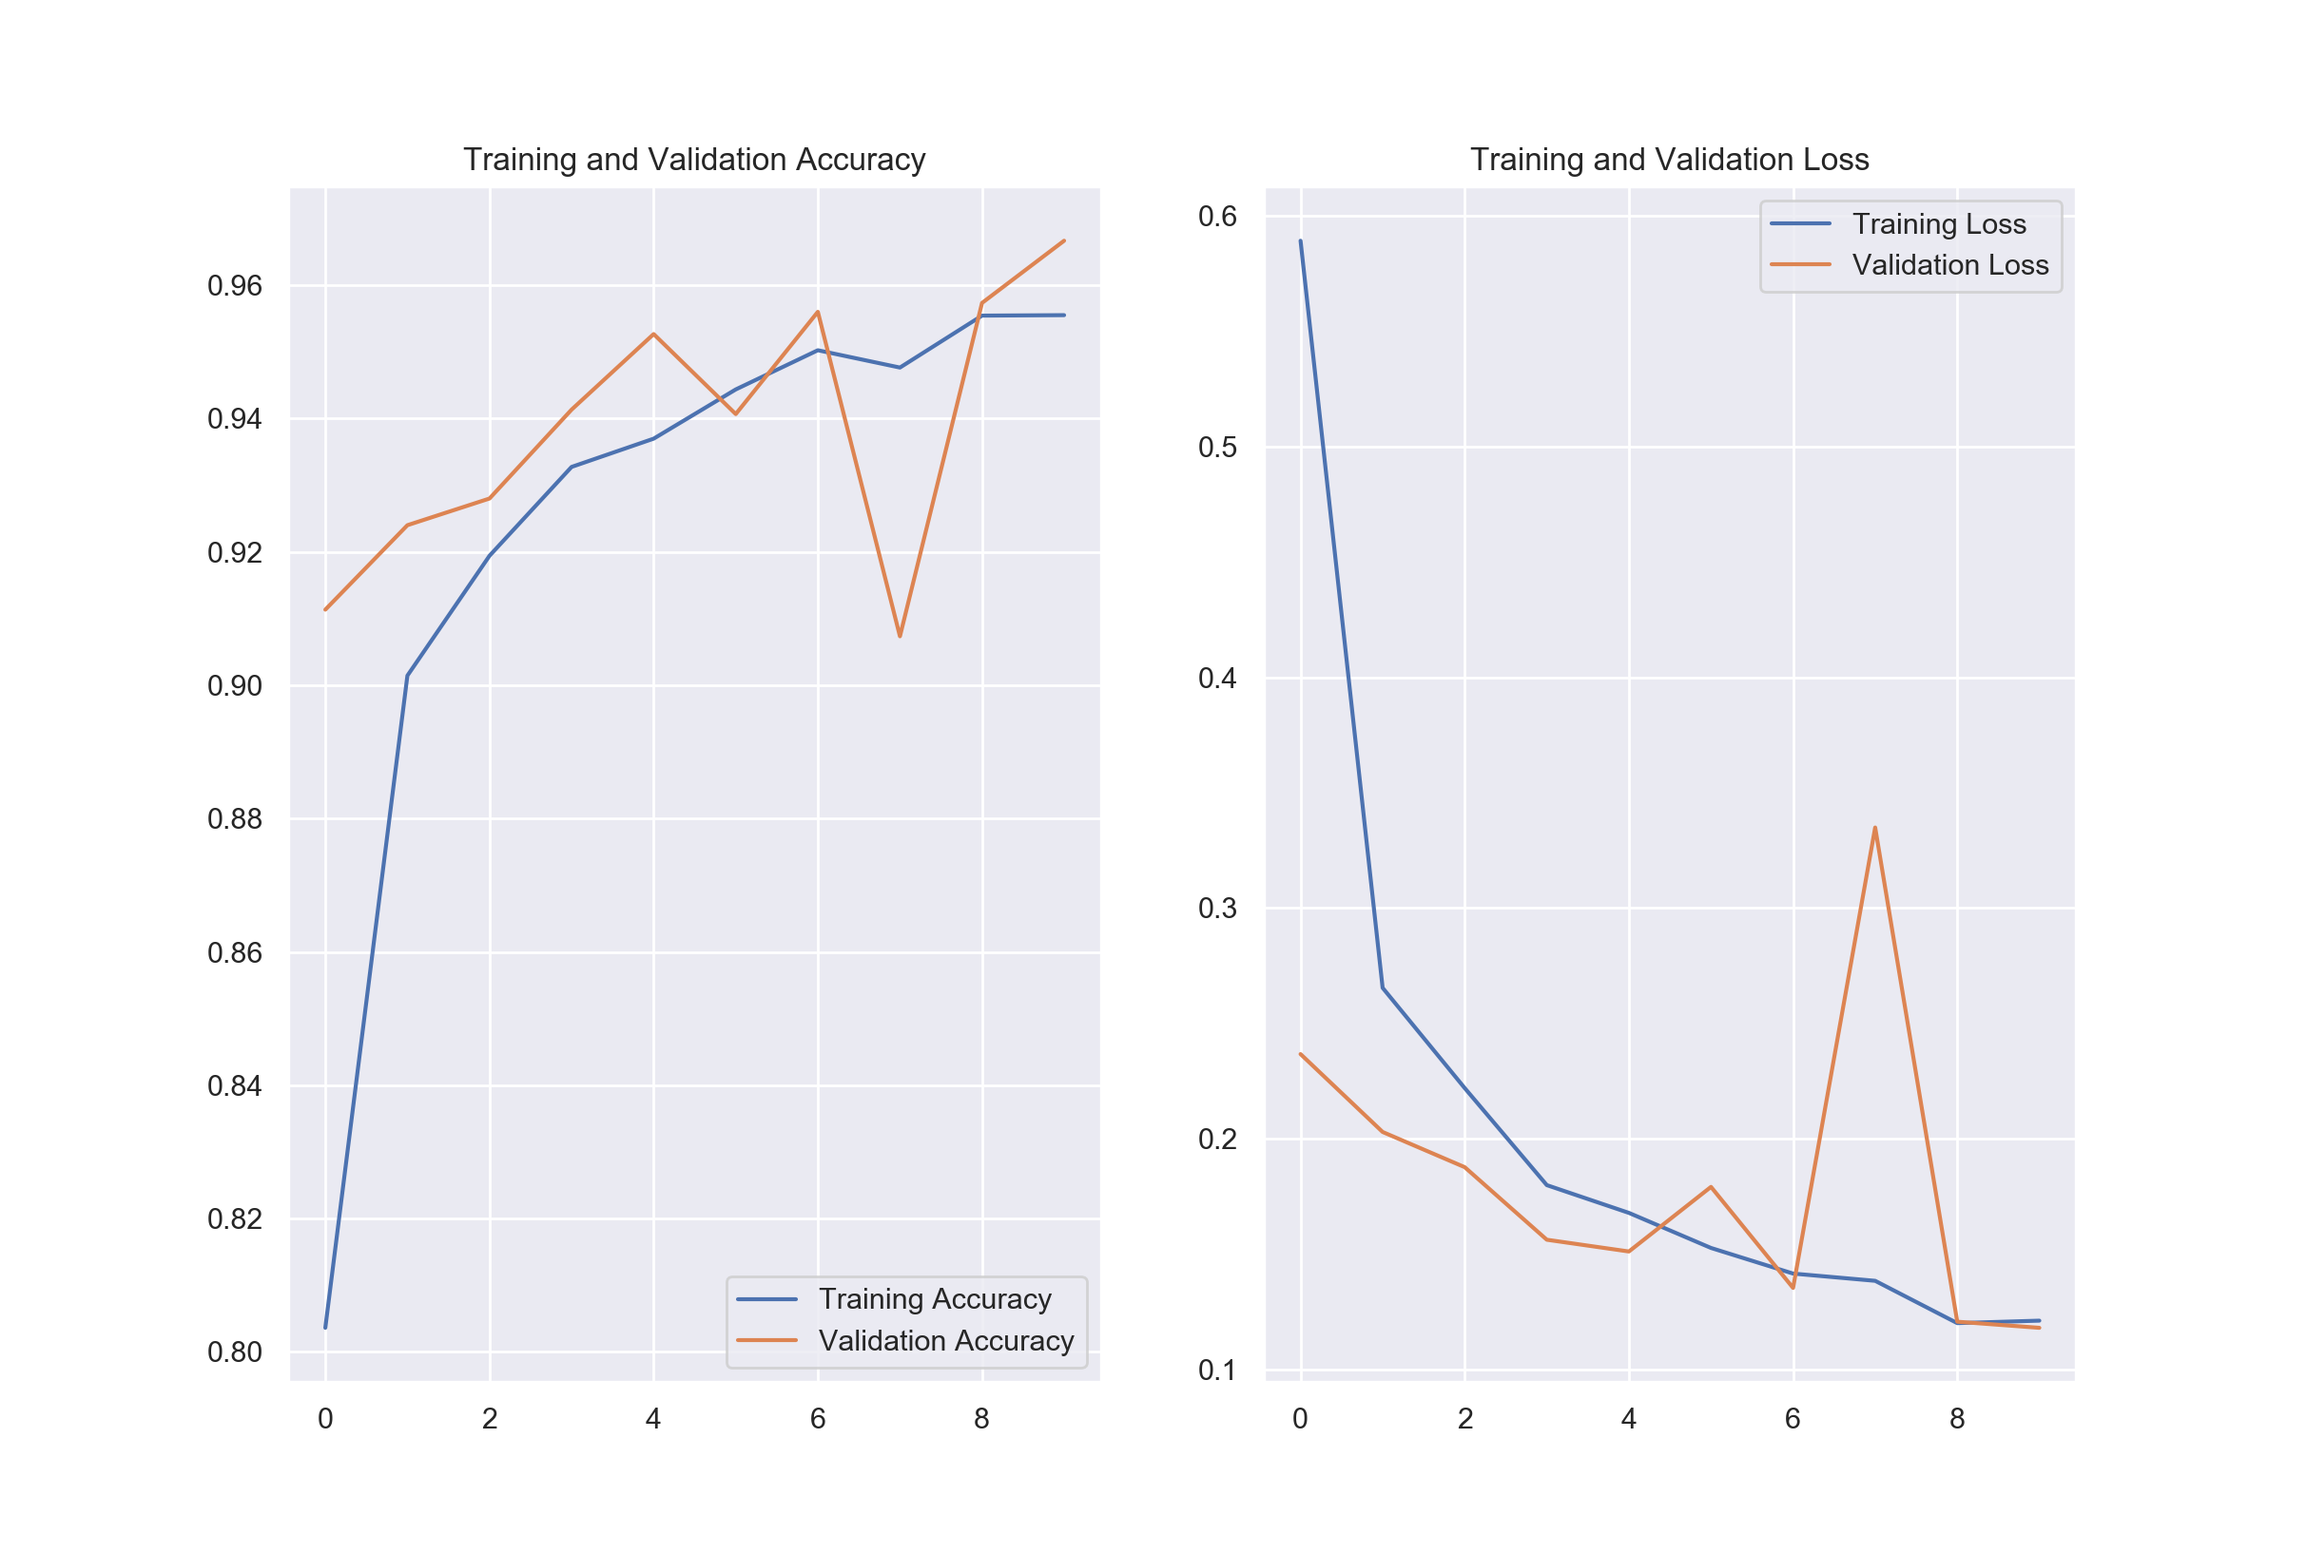
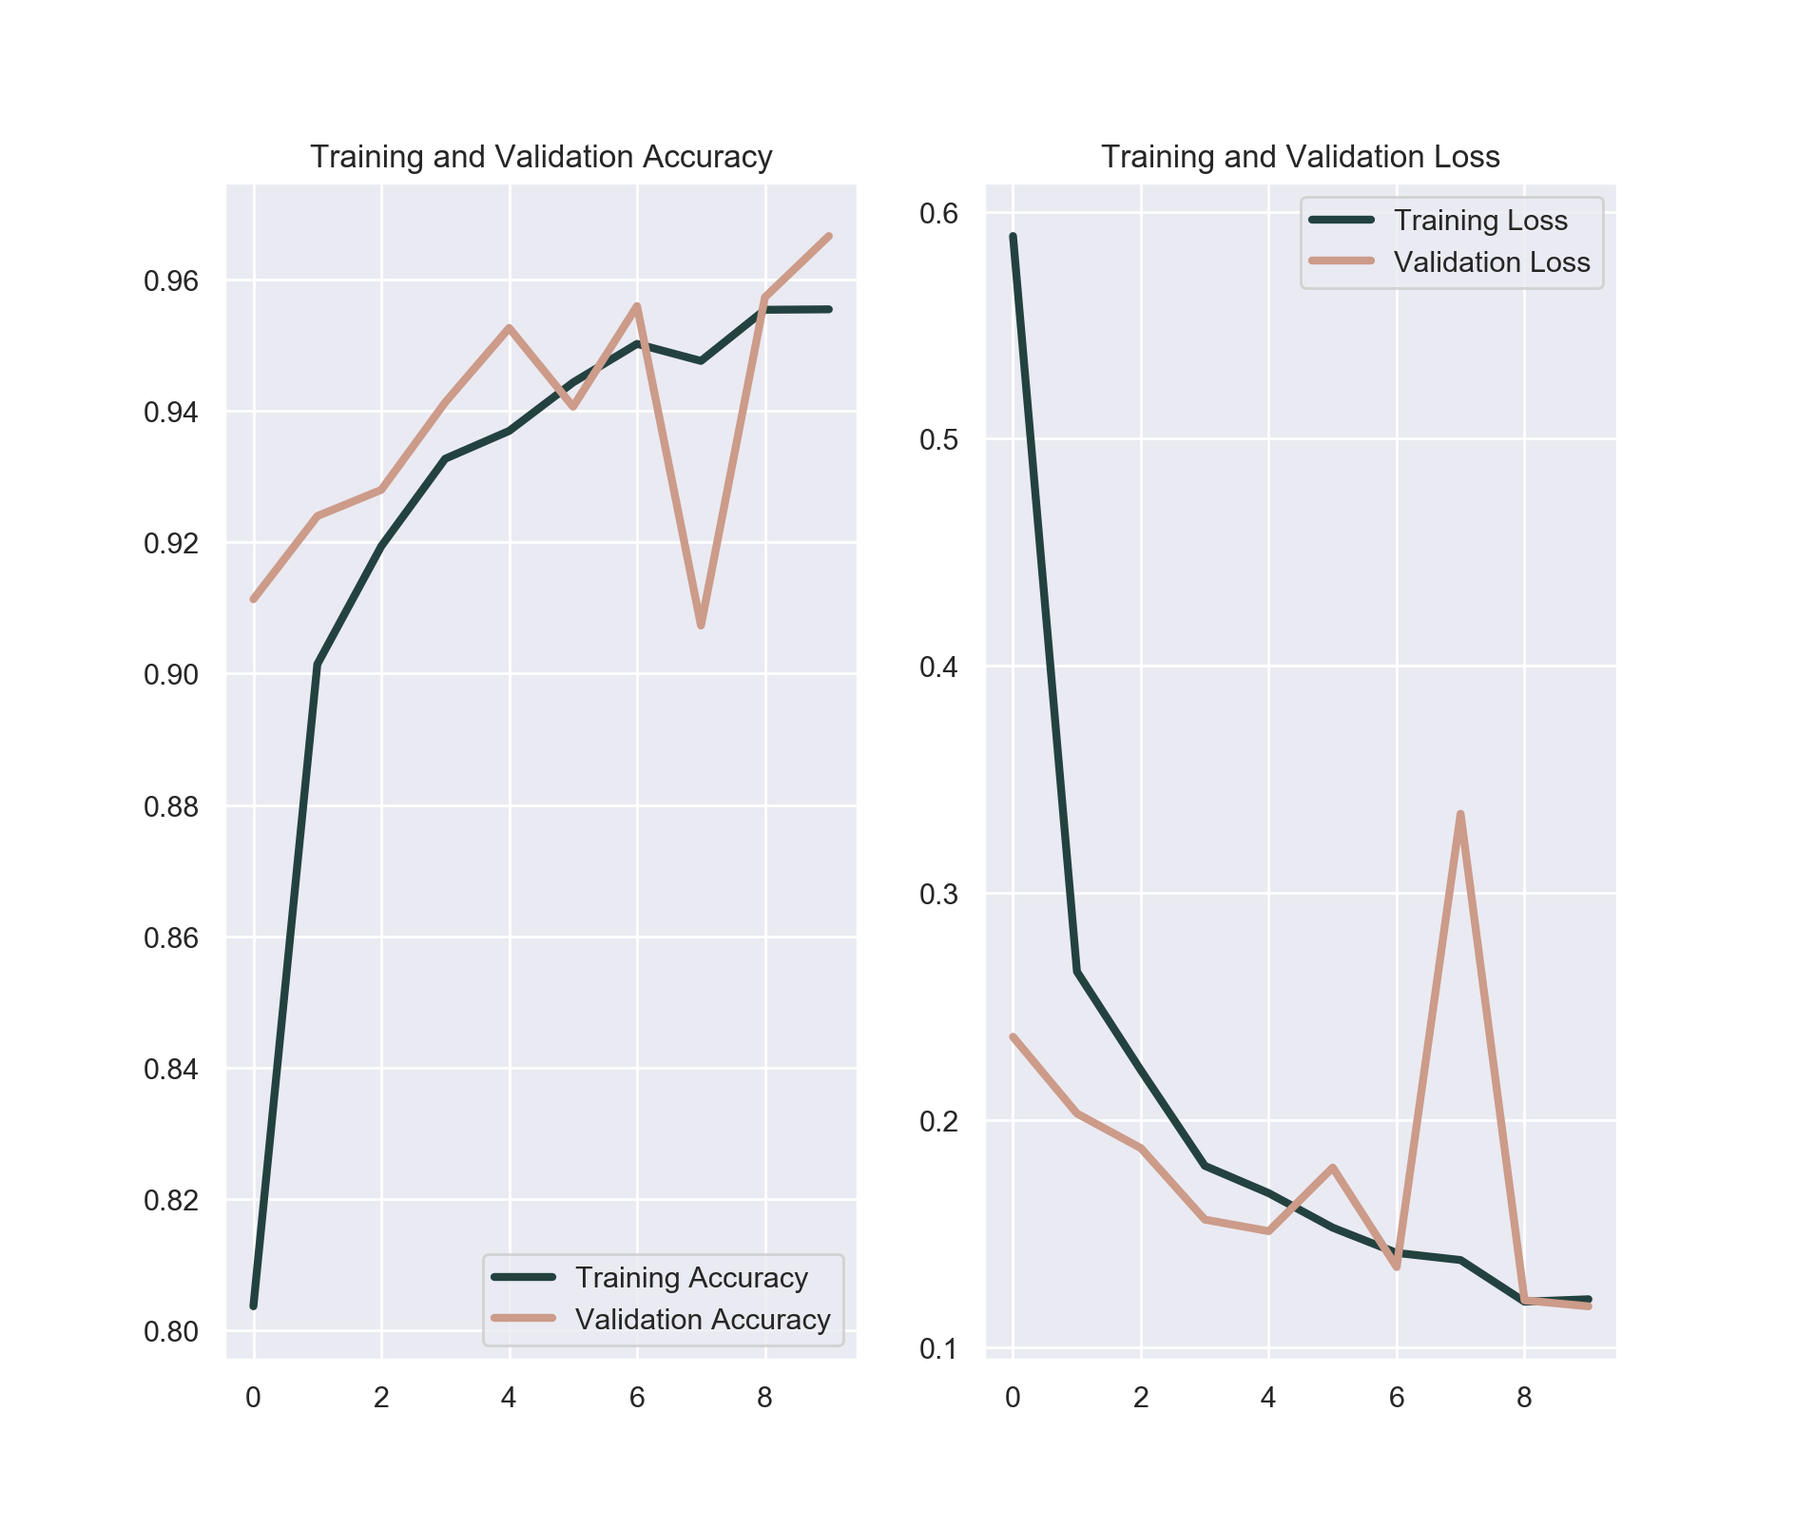
updating files

diff --git a/rough_drafts/05cnn96.py b/rough_drafts/05cnn96.py
@@ -1,88 +1,88 @@
-'''
-ADJUSTED FROM 03CNN
+''' 
+final val_acc = 0.96
+UPDATING 01CNN
+code credit - lecture + solutions
 -adding tensorboard callback
--changed from .image_dataset_from_dir to flow_from_dir
-final val_acc =  0. acc = 0.
-code copied from 
-https://www.tensorflow.org/tutorials/images/classification#import_tensorflow_and_other_libraries
+-adjusted code from model.add to .layers
 '''
-
 import numpy as np
 import pandas as pd
 import seaborn as sns
 import matplotlib.pyplot as plt
 sns.set()
 import tensorflow as tf
-from tensorflow import keras
-from tensorflow.keras.models import Sequential
 from tensorflow.keras import layers
 from keras.layers import Activation, Convolution2D, Dense, Dropout, Flatten, MaxPooling2D
-from keras.callbacks import EarlyStopping, TensorBoard
+from keras.models import Sequential
+from keras.applications.xception import preprocess_input 
 from keras.preprocessing.image import ImageDataGenerator
+from keras.callbacks import EarlyStopping, TensorBoard
 
-def create_model(input_size, num_classes):
-    """ cnn code from keras website """
+def create_model(input_size, n_categories):
+    """ baseline cnn code from solutions """
     nb_filters = 32
-    num_classes = 3
+    kernel_size = (3, 3)
     pool_size = (2, 2)
     model = tf.keras.Sequential([
-        layers.experimental.preprocessing.Rescaling(1./255),
-        layers.Conv2D(nb_filters, kernel_size = (3,3), padding='valid', 
-                    input_shape=input_size, activation='relu'),
-
-        layers.Conv2D(nb_filters, kernel_size = (3,3), activation='relu'), #updated kernel
-
-        layers.Conv2D(nb_filters, kernel_size = (3,3), activation='relu'), #updated kernel
+        layers.Conv2D(nb_filters, kernel_size = kernel_size,
+                        padding='valid',
+                        input_shape=input_size, 
+                        activation = 'relu'),
+        layers.Conv2D(nb_filters, kernel_size = kernel_size, 
+                        activation = 'relu'),
         layers.MaxPooling2D(pool_size=pool_size),
         layers.Dropout(0.25),
-        
+    # transition to an multi-layer perceptron
         layers.Flatten(),
-        layers.Dense(128, activation='softmax'), #higher dense
-        layers.Dense(num_classes)
+        layers.Dense(128, activation = 'relu'),
+        layers.Dropout(0.5), #more regularized 
+        layers.Dense(n_categories, activation = 'softmax')
     ])
-    return model 
+    return model
 
 def run_model(epoch):
     """    data generator & runs model returns history  """ 
-    train_data_path = "../animals/train"
-    val_data_path = "../animals/val"
+    img_width, img_height = 150, 150
+    train_data_dir = '../animals/train'
+    val_data_dir = '../animals/val'
     batch_size = 32
-    img_size = 150
 
     train_datagen = ImageDataGenerator(
-        train_data_path,
+        train_data_dir,
         rescale = 1. / 255,
         shear_range = 0.2,
         zoom_range = 0.2,
         horizontal_flip = True)
 
     val_datagen = ImageDataGenerator(rescale = 1. / 255)
-
+    
     train_generator = train_datagen.flow_from_directory(
-        train_data_path,
-        target_size=(img_size, img_size),
+        train_data_dir,
+        target_size=(img_width, img_height),
         batch_size=batch_size,
         class_mode='categorical')
 
     val_generator = val_datagen.flow_from_directory(
-        val_data_path,
-        target_size=(img_size, img_size),
+        val_data_dir,
+        target_size=(img_width, img_height),
         batch_size = batch_size,
         class_mode = 'categorical')
 
-    model = create_model((150, 150, 3), 3)
+    mod = create_model((150, 150, 3), 3)
 
-    model.compile(optimizer='adam', 
+    mod.compile(optimizer='adam', 
                 loss ='categorical_crossentropy', 
                 metrics ='accuracy')
 
-    es = EarlyStopping(monitor='val_loss', patience=2)
+    es = EarlyStopping(monitor='val_loss', 
+                    patience=5, 
+                    restore_best_weights=True)
 
     tensorboard = tf.keras.callbacks.TensorBoard(log_dir='./logs', 
                     histogram_freq=2, batch_size=batch_size)
     #command line: 
     #tensorboard --logdir=path_to_your_logs
-    history = model.fit(train_generator,
+    history = mod.fit(train_generator,
         validation_data = val_generator,
         epochs = epoch,
         callbacks = [es, tensorboard])

diff --git a/rough_drafts/04cnn33.py b/rough_drafts/04cnn33.py
@@ -1,0 +1,94 @@
+'''
+ADJUSTED FROM 03CNN
+Stopped early after 4 epochs
+-adding tensorboard callback
+-changed from .image_dataset_from_dir to flow_from_dir
+final val_acc =  0.3333 acc = 0.3239
+code copied from 
+https://www.tensorflow.org/tutorials/images/classification#import_tensorflow_and_other_libraries
+'''
+
+import numpy as np
+import pandas as pd
+import seaborn as sns
+import matplotlib.pyplot as plt
+sns.set()
+import tensorflow as tf
+from tensorflow import keras
+from tensorflow.keras.models import Sequential
+from tensorflow.keras import layers
+from keras.layers import Activation, Convolution2D, Dense, Dropout, Flatten, MaxPooling2D
+from keras.callbacks import EarlyStopping, TensorBoard
+from keras.preprocessing.image import ImageDataGenerator
+
+def create_model(input_size, num_classes):
+    """ cnn code from keras website """
+    nb_filters = 32
+    num_classes = 3
+    pool_size = (2, 2)
+    model = tf.keras.Sequential([
+        layers.experimental.preprocessing.Rescaling(1./255),
+        layers.Conv2D(nb_filters, kernel_size = (3,3), padding='valid', 
+                    input_shape=input_size, activation='relu'),
+
+        layers.Conv2D(nb_filters, kernel_size = (3,3), activation='relu'), #updated kernel
+
+        layers.Conv2D(nb_filters, kernel_size = (3,3), activation='relu'), #updated kernel
+        layers.MaxPooling2D(pool_size=pool_size),
+        layers.Dropout(0.25),
+        
+        layers.Flatten(),
+        layers.Dense(128, activation='softmax'), #higher dense
+        layers.Dense(num_classes)
+    ])
+    return model 
+
+def run_model(epoch):
+    """    data generator & runs model returns history  """ 
+    train_data_path = "../animals/train"
+    val_data_path = "../animals/val"
+    batch_size = 32
+    img_size = 150
+
+    train_datagen = ImageDataGenerator(
+        train_data_path,
+        rescale = 1. / 255,
+        shear_range = 0.2,
+        zoom_range = 0.2,
+        horizontal_flip = True)
+
+    val_datagen = ImageDataGenerator(rescale = 1. / 255)
+
+    train_generator = train_datagen.flow_from_directory(
+        train_data_path,
+        target_size=(img_size, img_size),
+        batch_size=batch_size,
+        class_mode='categorical')
+
+    val_generator = val_datagen.flow_from_directory(
+        val_data_path,
+        target_size=(img_size, img_size),
+        batch_size = batch_size,
+        class_mode = 'categorical')
+
+    model = create_model((150, 150, 3), 3)
+
+    model.compile(optimizer='adam', 
+                loss ='categorical_crossentropy', 
+                metrics ='accuracy')
+
+    es = EarlyStopping(monitor='val_loss', patience=2)
+
+    tensorboard = tf.keras.callbacks.TensorBoard(log_dir='./logs', 
+                    histogram_freq=2, batch_size=batch_size)
+    #command line: 
+    #tensorboard --logdir=path_to_your_logs
+    history = model.fit(train_generator,
+        validation_data = val_generator,
+        epochs = epoch,
+        callbacks = [es, tensorboard])
+
+    return history
+
+if __name__ == "__main__":
+    history = run_model(10)

diff --git a/src/02_cnn.py b/src/02_cnn.py
@@ -17,26 +17,19 @@ from keras.callbacks import ModelCheckpoint
 
 def create_model():
     """ final cnn model """
-
-    return model
+    pass
 
 def data_gen():
     """ final data generator """
-    mod = create_model()
-
-    mod.compile(optimizer='adam', 
-                loss ='categorical_crossentropy', 
-                metrics ='accuracy')
-    
-    history = mod.fit(train_generator, 
-            validation_data=validation_generator,
-            epochs=epochs)  
-
-    return history
+    pass
 
 def graph_model(history, epochs):
     """ code to run accuracy on test and validation """
+    pink = '#CC9B89'
+    blue = '#23423F'
+    gold = '#B68D34'
     epochs = 10
+
     acc = history.history['accuracy'] 
     val_acc = history.history['val_accuracy'] 
     loss=history.history['loss'] 
@@ -45,14 +38,18 @@ def graph_model(history, epochs):
 
     plt.figure(figsize=(8, 8))
     plt.subplot(1, 2, 1)
-    plt.plot(epochs_range, acc, label='Training Accuracy')
-    plt.plot(epochs_range, val_acc, label='Validation Accuracy')
+    plt.plot(epochs_range, acc, label='Training Accuracy',
+            linewidth = 3, color = blue)
+    plt.plot(epochs_range, val_acc, label='Validation Accuracy',
+            linewidth = 3, color = pink)
     plt.legend(loc='lower right')
     plt.title('Training and Validation Accuracy')
 
     plt.subplot(1, 2, 2)
-    plt.plot(epochs_range, loss, label='Training Loss')
-    plt.plot(epochs_range, val_loss, label='Validation Loss')
+    plt.plot(epochs_range, loss, label='Training Loss',
+            linewidth = 3, color = blue)
+    plt.plot(epochs_range, val_loss, label='Validation Loss',
+            linewidth = 3, color = pink)
     plt.legend(loc='upper right')
     plt.title('Training and Validation Loss')
     plt.show();

diff --git a/src/03_kmeans.py b/src/03_kmeans.py
@@ -1,0 +1,11 @@
+'''
+kmeans cluster on wild images
+'''
+import numpy as np
+import pandas as pd
+import seaborn as sns
+import matplotlib.pyplot as plt
+sns.set()
+from sklearn.cluster import KMeans
+from keras.preprocessing.image import load_img, img_to_array, array_to_img
+

diff --git a/src/01_eda.py b/src/01_eda.py
@@ -62,6 +62,8 @@ if __name__ == "__main__":
     #tiger change color
     animal_color_visual('../animals/train/wild/flickr_wild_001127.jpg', 'tiger')
 
+
+
 #---- GRAPHING CODE TO SAVE 
     #graphs 9 images - not all on 1?!
     # plt.figure(figsize=(10, 10))

diff --git a/rough_drafts/01cnn96.py b/rough_drafts/01cnn96.py
@@ -1,9 +1,7 @@
 ''' 
 final val_acc = 0.9666 acc = 0.9555
-rough drafts of cnn model #1
-not meant for running meant for notes 
+code credit - lecture + solutions
 '''
-
 import numpy as np
 import pandas as pd
 import seaborn as sns

diff --git a/rough_drafts/02cnn34.py b/rough_drafts/02cnn34.py
@@ -1,6 +1,6 @@
 '''
 final val_acc =  0.3462 acc = 0.3537
-code copied from 
+code credit 
 https://www.tensorflow.org/tutorials/images/classification#import_tensorflow_and_other_libraries
 '''
 
